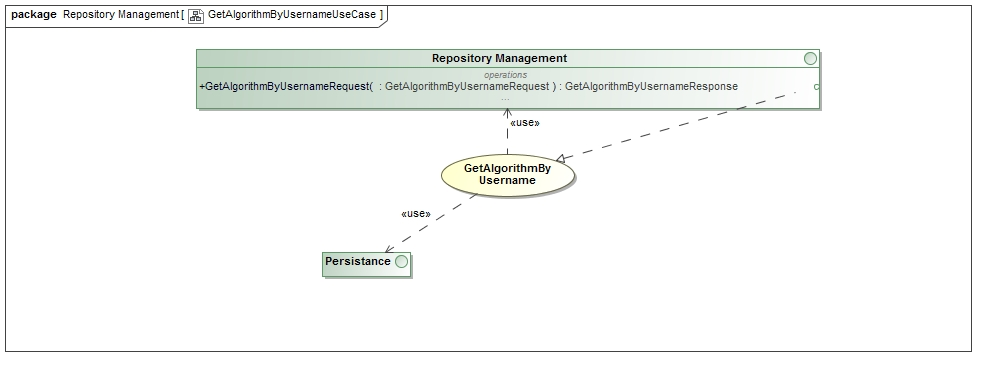
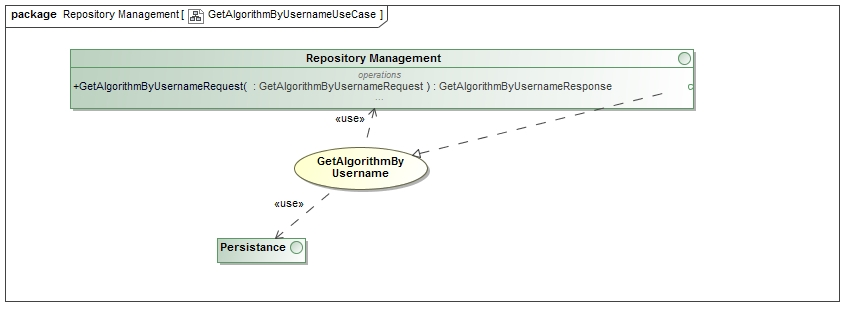
Adds GetAlgorithmByUsername, GetDatasetByUsername, GetUnusedAlgorithmByUsername, GetUnusedDatasetByUsername functional requirements to documentation as per issue #55 #57 #67 and #69

diff --git a/Functional Requirements/RepositoryManagement.tex b/Functional Requirements/RepositoryManagement.tex
@@ -139,6 +139,19 @@ The post-conditions
 \begin{itemize}
 	\item Dataset is successfully retrieved.
 \end{itemize}
+\paragraph{Functional Requirements}
+The lower level services required by the getDatasetByUsername service to either check the
+pre-conditions or address the post-conditions are shown in Figure \ref{fig:getDatasetByUsernameUseCase}
+\begin{figure}[H]
+	\begin{center}
+		\includegraphics[scale=0.6]{../Diagrams and Charts/Test Data/GetDatasetByUsernameUseCase.jpg}
+		\caption{Get Dataset by Username Functional Requirements}
+		\label{fig:getDatasetByUsernameUseCase}
+	\end{center}
+\end{figure}
+
+The only lower level service that this use case requires is access to
+a persistance interface to access the database.
 
 \subsubsection {Get dataset by category}
 \paragraph{Service Contract}
@@ -221,6 +234,20 @@ The post-conditions
 \begin{itemize}
 	\item Dataset is successfully retrieved.
 \end{itemize}
+
+\paragraph{Functional Requirements}
+The lower level services required by the getUnusedDatasetByUsername service to either check the
+pre-conditions or address the post-conditions are shown in Figure \ref{fig:getUnusedDatasetByUsernameUseCase}
+\begin{figure}[H]
+	\begin{center}
+		\includegraphics[scale=0.6]{../Diagrams and Charts/Test Data/GetUnusedDatasetByUsernameUseCase.jpg}
+		\caption{Get Unused Dataset by Username Functional Requirements}
+		\label{fig:getUnusedDatasetByUsernameUseCase}
+	\end{center}
+\end{figure}
+
+The only lower level service that this use case requires is access to
+a persistance interface to access the database.
 
 \subsection{Algorithm Management}
 \subsubsection {Users will be able to add an algorithm}
@@ -353,6 +380,19 @@ The post-conditions
 \begin{itemize}
 	\item Algorithm is retrieved succesfully
 \end{itemize}
+\paragraph{Functional Requirements}
+The lower level services required by the getAlgorithmByUsername service to either check the
+pre-conditions or address the post-conditions are shown in Figure \ref{fig:getAlgorithmByUsernameUseCase}
+\begin{figure}[H]
+	\begin{center}
+		\includegraphics[scale=0.6]{../Diagrams and Charts/Test Data/GetAlgorithmByUsernameUseCase.jpg}
+		\caption{Get Algorithm by Username Functional Requirements}
+		\label{fig:getAlgorithmByUsernameUseCase}
+	\end{center}
+\end{figure}
+
+The only lower level service that this use case requires is access to
+a persistance interface to access the database.
 
 \subsubsection {Get an algorithm by category}
 \paragraph{Service Contract}
@@ -434,6 +474,20 @@ The post-conditions
 \begin{itemize}
 	\item Algorithm is successfully retrieved.
 \end{itemize}
+
+\paragraph{Functional Requirements}
+The lower level services required by the getUnusedAlgorithmByUsername service to either check the
+pre-conditions or address the post-conditions are shown in Figure \ref{fig:getUnusedAlgorithmByUsernameUseCase}
+\begin{figure}[H]
+	\begin{center}
+		\includegraphics[scale=0.6]{../Diagrams and Charts/Test Data/GetUnusedAlgorithmByUsernameUseCase.jpg}
+		\caption{Get Unused Algorithm by Username Functional Requirements}
+		\label{fig:getUnusedAlgorithmByUsernameUseCase}
+	\end{center}
+\end{figure}
+
+The only lower level service that this use case requires is access to
+a persistance interface to access the database.
 
 \subsubsection {Get an unused algorithm by Id}
 
